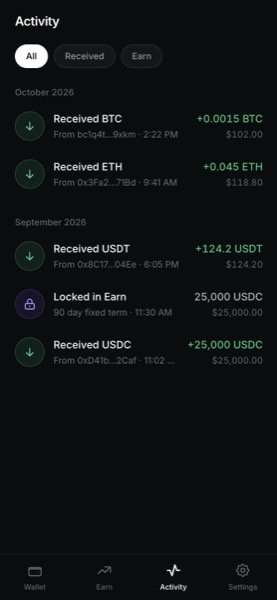
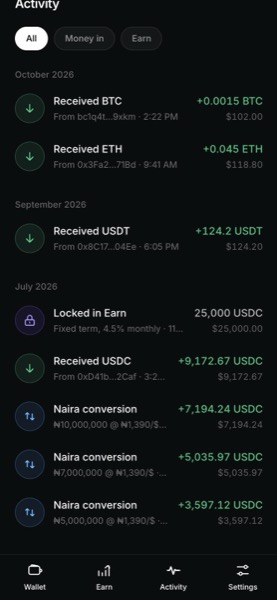
Fund the Earn position through naira conversions
Replaces the single 25,000 USDC deposit with the actual funding path:
three inward naira conversions of NGN5m, NGN7m and NGN10m at NGN1,390
to the dollar, giving 3,597.12, 5,035.97 and 7,194.24 USDC, plus a
9,172.67 USDC top up. The four legs total exactly 25,000.

Adds a convert transaction kind with its own icon and tint, and the
money in filter now covers conversions as well as receives.

diff --git a/components/Activity.tsx b/components/Activity.tsx
@@ -5,7 +5,7 @@ import { ScreenHeader} from './Ui';
 
 const FILTERS = [
   ['all', 'All'],
-  ['receive', 'Received'],
+  ['in', 'Money in'],
   ['earn', 'Earn'],
 ] as const;
 
@@ -16,6 +16,9 @@ const ICONS: Record<string, React.ReactNode> = {
   send: <path strokeLinecap="round" strokeLinejoin="round" d="M12 19V5m0 0l-6 6m6-6l6 6" />,
   'earn-lock': <path strokeLinecap="round" strokeLinejoin="round" d="M12 15v2m-6 4h12a2 2 0 002-2v-6a2 2 0 00-2-2H6a2 2 0 00-2 2v6a2 2 0 002 2zm10-10V7a4 4 0 00-8 0v4h8z" />,
   'earn-reward': <path strokeLinecap="round" strokeLinejoin="round" d="M13 7h8m0 0v8m0-8l-8 8-4-4-6 6" />,
+  convert: (
+    <path strokeLinecap="round" strokeLinejoin="round" d="M7.5 16.5V5.5m0 0L4.5 8.5M7.5 5.5l3 3M16.5 7.5v11m0 0l3-3M16.5 18.5l-3-3" />
+  ),
 };
 
 const Activity: React.FC<{ transactions: Tx[] }> = ({ transactions }) => {
@@ -24,7 +27,11 @@ const Activity: React.FC<{ transactions: Tx[] }> = ({ transactions }) => {
   const filtered = useMemo(
     () =>
       transactions.filter((t) =>
-        filter === 'all' ? true : filter === 'earn' ? t.kind.startsWith('earn') : t.kind === filter,
+        filter === 'all'
+          ? true
+          : filter === 'earn'
+          ? t.kind.startsWith('earn')
+          : t.kind === 'receive' || t.kind === 'convert',
       ),
     [transactions, filter],
   );
@@ -67,7 +74,9 @@ const Activity: React.FC<{ transactions: Tx[] }> = ({ transactions }) => {
             <h2 className="px-5 text-[12px] font-medium text-white/35 mb-1">{month}</h2>
             <div className="px-2">
               {txs.map((t) => {
-                const incoming = t.kind === 'receive' || t.kind === 'earn-reward';
+                const incoming =
+                  t.kind === 'receive' || t.kind === 'earn-reward' || t.kind === 'convert';
+                const converted = t.kind === 'convert';
                 const locked = t.kind === 'earn-lock';
                 return (
                   <div
@@ -78,6 +87,8 @@ const Activity: React.FC<{ transactions: Tx[] }> = ({ transactions }) => {
                       className={`w-10 h-10 rounded-full flex items-center justify-center shrink-0 border ${
                         locked
                           ? 'bg-[#7C5CFF]/10 border-[#7C5CFF]/25 text-[#A992FF]'
+                          : converted
+                          ? 'bg-[#3B9DFF]/10 border-[#3B9DFF]/25 text-[#5FB2FF]'
                           : incoming
                           ? 'bg-[#16C784]/10 border-[#16C784]/25 text-[#16C784]'
                           : 'bg-white/[0.06] border-white/10 text-white/70'

diff --git a/data.ts b/data.ts
@@ -118,14 +118,47 @@ export const TRANSACTIONS: Tx[] = [
     status: 'confirmed',
   },
   {
-    id: 'tx-2',
+    id: 'tx-fund-top-up',
     kind: 'receive',
     title: 'Received USDC',
     subtitle: 'From 0xD41b...2Caf',
     symbol: 'USDC',
-    amount: 25000,
-    usd: 25000,
-    date: '2026-07-17T11:02:00',
+    amount: 9172.67,
+    usd: 9172.67,
+    date: '2026-07-16T15:20:00',
+    status: 'confirmed',
+  },
+  {
+    id: 'tx-conv-3',
+    kind: 'convert',
+    title: 'Naira conversion',
+    subtitle: '₦10,000,000 @ ₦1,390/$',
+    symbol: 'USDC',
+    amount: 7194.24,
+    usd: 7194.24,
+    date: '2026-07-15T10:12:00',
+    status: 'confirmed',
+  },
+  {
+    id: 'tx-conv-2',
+    kind: 'convert',
+    title: 'Naira conversion',
+    subtitle: '₦7,000,000 @ ₦1,390/$',
+    symbol: 'USDC',
+    amount: 5035.97,
+    usd: 5035.97,
+    date: '2026-07-09T13:48:00',
+    status: 'confirmed',
+  },
+  {
+    id: 'tx-conv-1',
+    kind: 'convert',
+    title: 'Naira conversion',
+    subtitle: '₦5,000,000 @ ₦1,390/$',
+    symbol: 'USDC',
+    amount: 3597.12,
+    usd: 3597.12,
+    date: '2026-07-02T09:05:00',
     status: 'confirmed',
   },
 ];

diff --git a/types.ts b/types.ts
@@ -23,7 +23,7 @@ export interface EarnPosition {
   termDays: number;
 }
 
-export type TxKind = 'receive' | 'send' | 'earn-lock' | 'earn-reward';
+export type TxKind = 'receive' | 'send' | 'convert' | 'earn-lock' | 'earn-reward';
 
 export interface Tx {
   id: string;

diff --git a/README.md b/README.md
@@ -72,6 +72,8 @@ throttled, bottom sheets with spring easing, and a 15 minute inactivity auto-loc
 - **$345.00** spot across USDT, ETH and BTC
 - **25,000 USDC** locked in a fixed term position at **4.5% monthly**, opened
   17 July 2026 and maturing 12 December 2026, paying out **$30,550.00**
+- The position was funded by three naira conversions (₦5m, ₦7m and ₦10m at
+  ₦1,390 to the dollar) plus a top up, which together come to exactly $25,000
 
 Passcode: `110801`, or tap the Face ID key to unlock.
 
